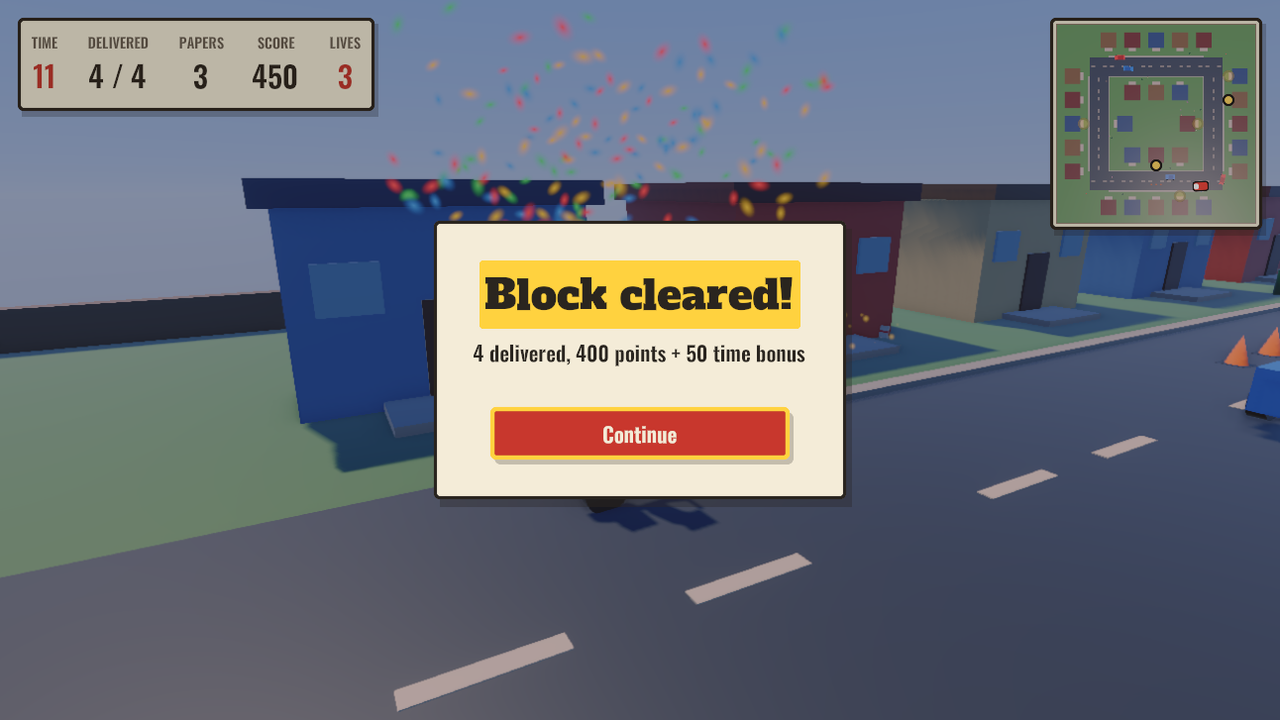
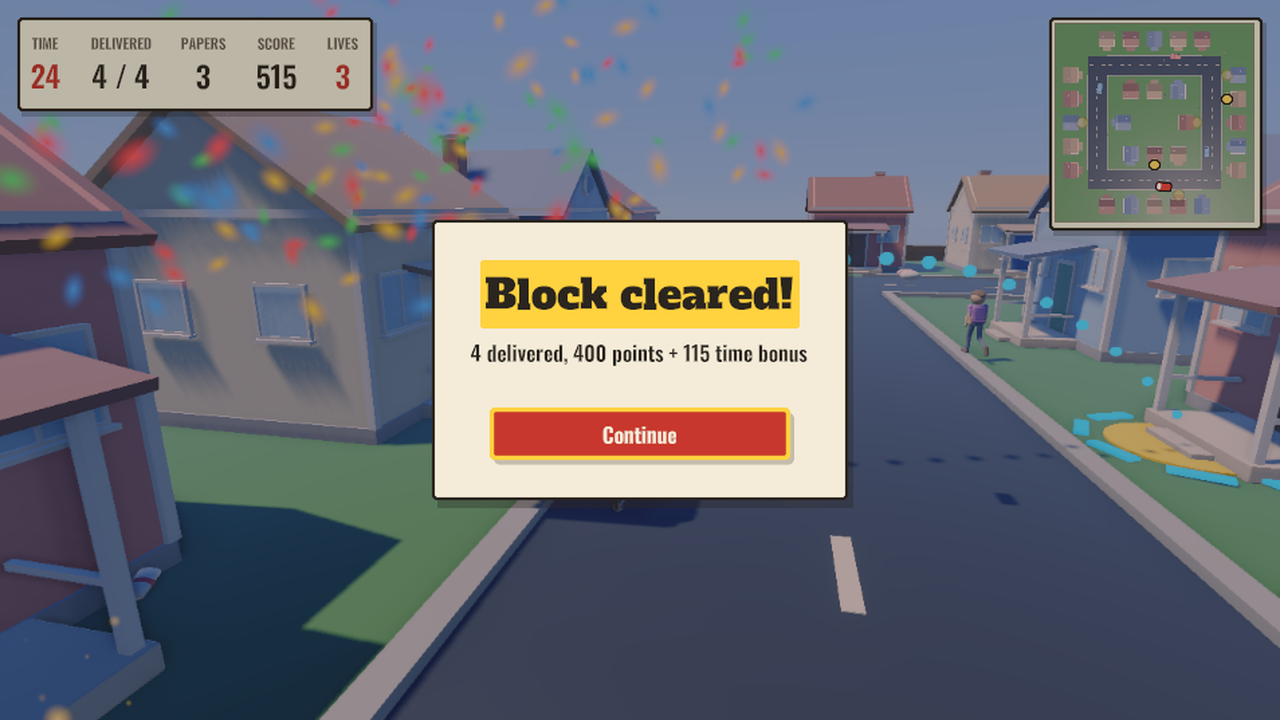
PaperKid: new screenshots and gameplay video
The title now has its street life, and the town and the kid are Blender models, so the old
screenshots no longer showed the game. Taken from play in the editor (a real Block1 clear). The
README links the new Steam Deck recording and says the models come from Blender scripts.

diff --git a/README.md b/README.md
@@ -114,13 +114,15 @@ and gamepad support throughout.
 **PaperKid** is an arcade paper-route game, also built entirely through the MCP tools: five
 town blocks on a difficulty ramp, papers thrown with a soft auto-aim, traffic and pedestrians on
 the navmesh, lives, a live minimap drawn by a top-down camera into a render texture, particle
-effects, a newsprint UI theme, and music that speeds up when the clock runs low.
+effects, a newsprint UI theme, and music that speeds up when the clock runs low. The kid and
+his bike, the houses, cars, people and animals are modelled, rigged and animated by Blender
+scripts.
 
 | Title | Riding a block | Block cleared |
 |:---:|:---:|:---:|
 | ![Title](Documentation/Images/PaperKid-Title.png) | ![Playing](Documentation/Images/PaperKid-Play.png) | ![Cleared](Documentation/Images/PaperKid-Cleared.png) |
 
-Watch it played on a Steam Deck: [PaperKid gameplay video](https://youtu.be/SauRONMkyOE).
+Watch it played on a Steam Deck: [PaperKid gameplay video](https://youtu.be/syJlmIirg_o).
 
 **NativeSample** is the reference for a game with native C++ code beside its scripts.
 

diff --git a/Data/SampleProjects/PaperKid/README.md b/Data/SampleProjects/PaperKid/README.md
@@ -21,7 +21,8 @@ higher quota, busier and faster traffic and less time for the distance. Three li
 block replays from the score you had when it started. A delivery scores 100 and a clear adds 5
 for every second left. The HUD shows the time, deliveries, papers, score and lives, and a
 minimap: a top-down render texture of the block with the subscribers (dimmed once delivered) and
-the bike, turned to its heading. A title screen with settings (master, music and effect
+the bike, turned to its heading. A title screen over a street going about its day (cars and
+people crossing, a dog and a cat pottering on the lawn) with settings (master, music and effect
 volumes), a pause menu, block cleared and failed screens, and a Game over or route complete
 summary.
 
